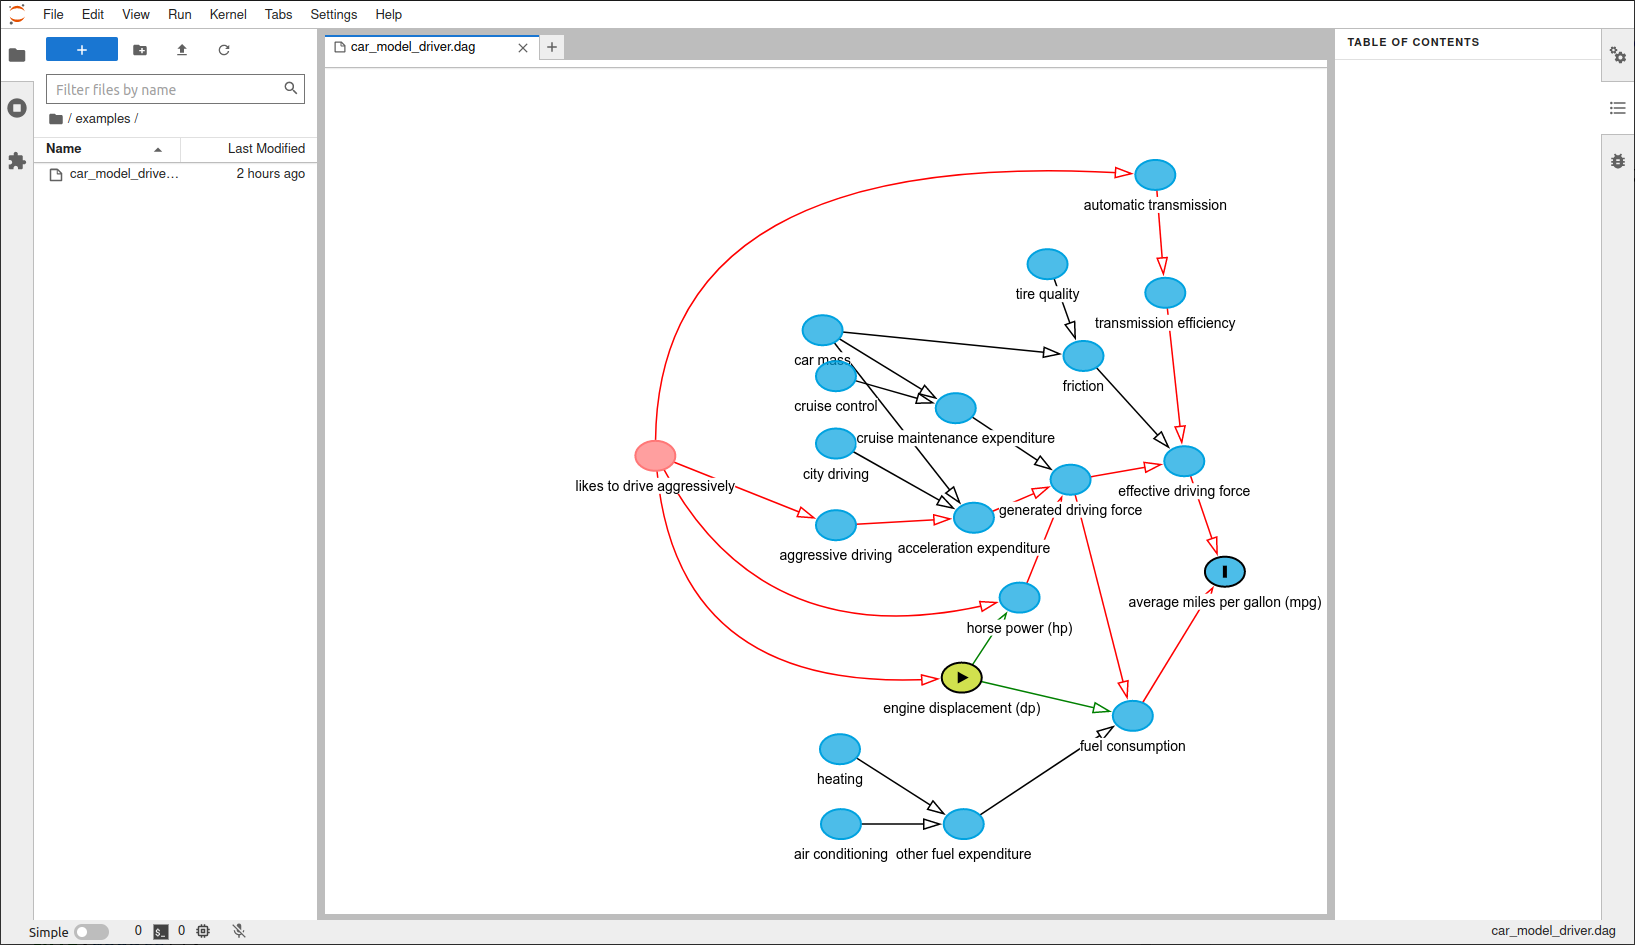
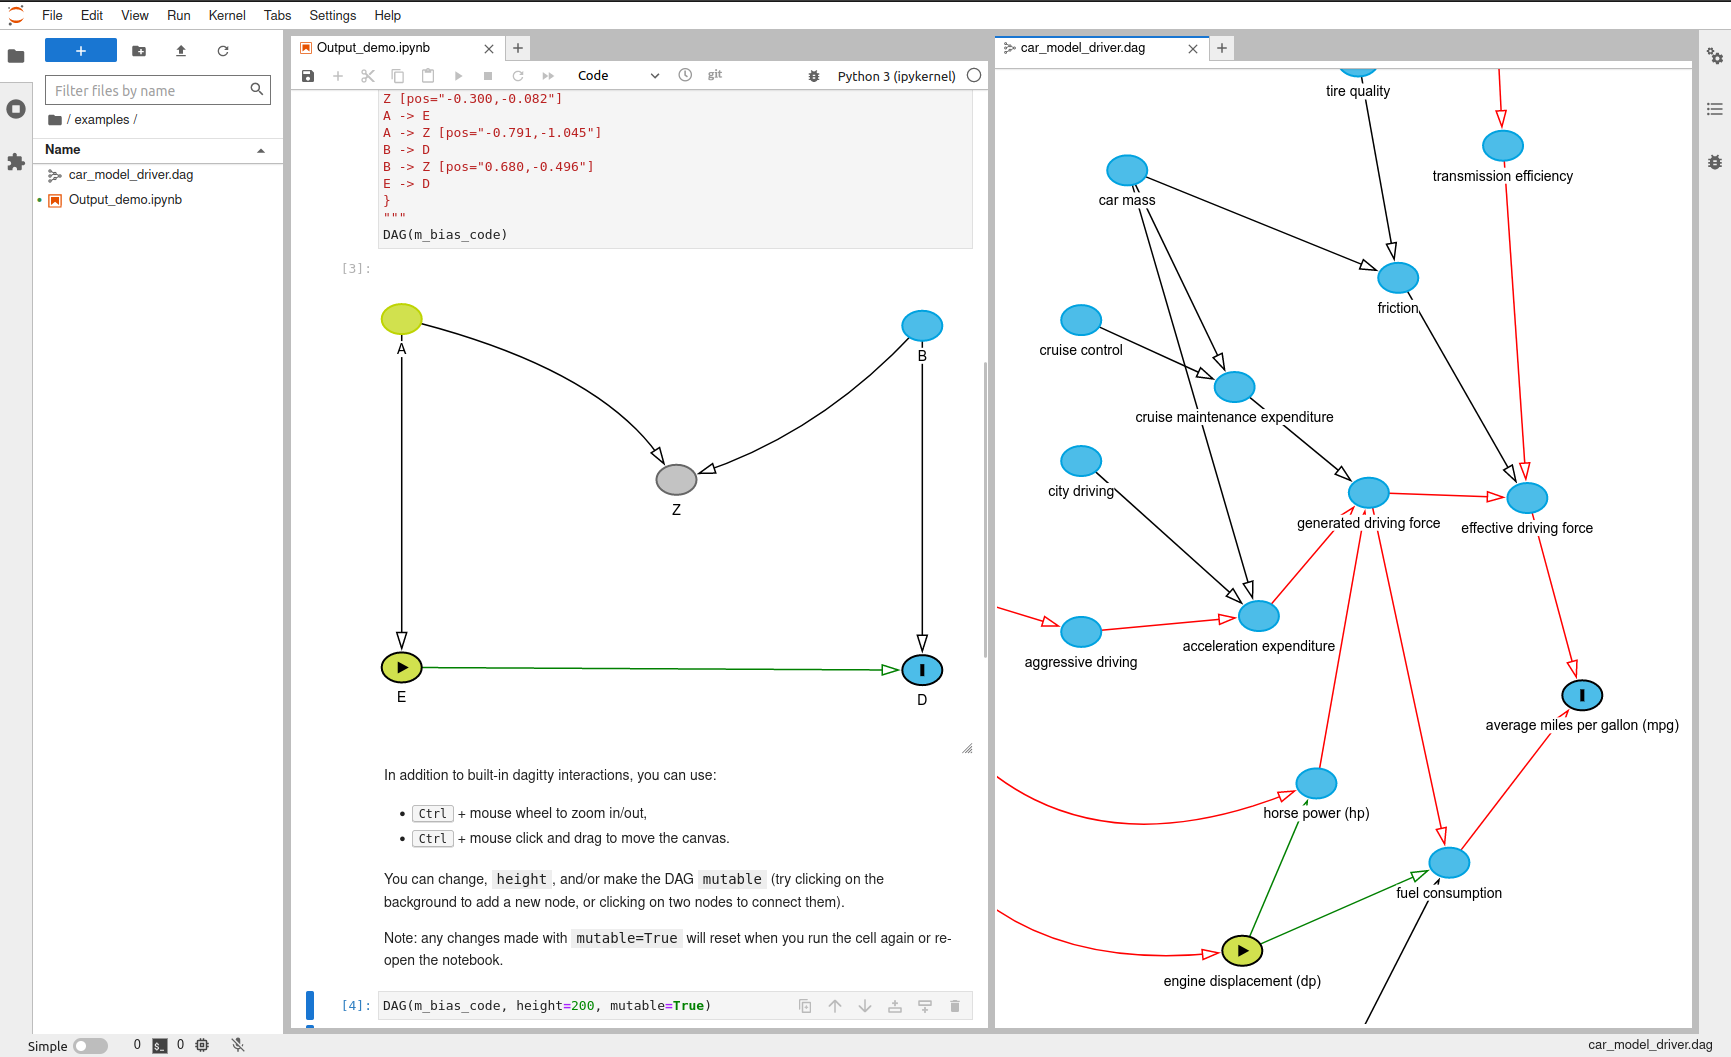
Implement pan & zoom

diff --git a/src/index.ts b/src/index.ts
@@ -15,6 +15,7 @@ import { Widget } from '@lumino/widgets';
 import type { Message } from '@lumino/messaging';
 
 import { DAGittyController, GraphParser } from './_dagitty';
+import type { Graph } from './_dagitty';
 import { dagIcon } from './icons';
 
 /**
@@ -37,6 +38,9 @@ export class OutputWidget extends Widget implements IRenderMime.IRenderer {
   private _resizeObserver: ResizeObserver;
   private _offsetLeft: number;
   private _offsetTop: number;
+  private _offsetWidth: number;
+  private _offsetHeight: number;
+  private _inDrag: boolean;
 
   /**
    * Construct a new output widget.
@@ -50,6 +54,7 @@ export class OutputWidget extends Widget implements IRenderMime.IRenderer {
       this._resize();
     });
     this._resizeObserver.observe(this.node);
+    this._inDrag = false;
   }
 
   /**
@@ -94,6 +99,8 @@ export class OutputWidget extends Widget implements IRenderMime.IRenderer {
   private _updatePositions() {
     this._offsetLeft = this.node.offsetLeft;
     this._offsetTop = this.node.offsetTop;
+    this._offsetWidth = this.node.offsetWidth;
+    this._offsetHeight = this.node.offsetHeight;
     this._arePositionsOutdated = false;
   }
 
@@ -163,6 +170,145 @@ export class OutputWidget extends Widget implements IRenderMime.IRenderer {
   protected onResize(msg: Widget.ResizeMessage): void {
     this._resize();
     this.update();
+  }
+
+  /**
+   * #### Notes
+   * This method implements the DOM `EventListener` interface and is
+   * called in response to events on the widgets's DOM node.
+   *
+   * This should not be called directly by user code.
+   */
+  handleEvent(event: Event): void {
+    switch (event.type) {
+      case 'wheel':
+        this._evtMouseWheel(event as WheelEvent);
+        event.preventDefault();
+        break;
+      case 'pointerdown':
+        this._evtMouseDown(event as MouseEvent);
+        break;
+      case 'pointermove':
+        this._evtMouseMove(event as MouseEvent);
+        break;
+      case 'pointerup':
+        this._evtMouseUp(event as MouseEvent);
+        break;
+    }
+  }
+
+  private _evtMouseDown(event: MouseEvent): void {
+    this._inDrag = true;
+  }
+
+  private _getBoundingBox(graph: Graph): number[] {
+    let box = graph.getBoundingBox();
+    if (box === null) {
+      const box2 = this.dagController.getView().bounds;
+      box = [box2[0], box2[2], box2[1], box2[3]];
+    }
+    return box;
+  }
+
+  private _evtMouseMove(event: MouseEvent): void {
+    if (!(this._inDrag && event.ctrlKey)) {
+      return;
+    }
+    this._maybeUpdatePositions();
+    const graph = this.dagController.getGraph();
+    const box = this._getBoundingBox(graph);
+    const w = box[2] - box[0];
+    const h = box[3] - box[1];
+    const dx = (event.movementX / this._offsetWidth) * w;
+    const dy = (event.movementY / this._offsetHeight) * h;
+
+    box[0] -= dx;
+    box[1] -= dy;
+    box[2] -= dx;
+    box[3] -= dy;
+
+    graph.setBoundingBox(box);
+    this.dagController.getView().drawGraph();
+    this.update();
+  }
+
+  private _evtMouseUp(event: MouseEvent): void {
+    this._inDrag = false;
+  }
+
+  private _evtMouseWheel(event: WheelEvent): void {
+    if (!(this.dagController && event.ctrlKey)) {
+      return;
+    }
+    const graph = this.dagController.getGraph();
+    let box = this._getBoundingBox(graph);
+    if (box === null) {
+      box = [0, 0, 1, 1];
+    }
+    const scale = 1 + event.deltaY / window.screen.height;
+    this._maybeUpdatePositions();
+    let w = box[2] - box[0];
+    let h = box[3] - box[1];
+
+    const xmin = box[0];
+    const ymin = box[1];
+
+    box[0] -= xmin;
+    box[1] -= ymin;
+    box[2] -= xmin;
+    box[3] -= ymin;
+
+    box[0] -= w / 2;
+    box[1] -= h / 2;
+    box[2] -= w / 2;
+    box[3] -= h / 2;
+
+    box = box.map((x) => x * scale);
+
+    const dx = (event.offsetX / this._offsetWidth) * (1 - scale) * w;
+    const dy = (event.offsetY / this._offsetHeight) * (1 - scale) * h;
+
+    box[0] += dx;
+    box[1] += dy;
+    box[2] += dx;
+    box[3] += dy;
+
+    w = box[2] - box[0];
+    h = box[3] - box[1];
+
+    box[0] += w / 2;
+    box[1] += h / 2;
+    box[2] += w / 2;
+    box[3] += h / 2;
+
+    box[0] += xmin;
+    box[1] += ymin;
+    box[2] += xmin;
+    box[3] += ymin;
+
+    graph.setBoundingBox(box);
+    this.dagController.getView().drawGraph();
+    this.update();
+  }
+
+  /**
+   * A message handler invoked on a `'before-attach'` message.
+   */
+  protected onBeforeAttach(msg: Message): void {
+    this.node.addEventListener('pointerdown', this);
+    this.node.addEventListener('pointerup', this);
+    this.node.addEventListener('pointermove', this);
+    this.node.addEventListener('wheel', this);
+  }
+
+  /**
+   * A message handler invoked on an `'after-detach'` message.
+   */
+  protected onAfterDetach(msg: Message): void {
+    this.node.removeEventListener('pointerdown', this);
+    this.node.removeEventListener('pointerup', this);
+    this.node.removeEventListener('pointermove', this);
+    this.node.removeEventListener('wheel', this);
   }
 
   dispose(): void {

diff --git a/src/_dagitty.d.ts b/src/_dagitty.d.ts
@@ -1,5 +1,17 @@
+/**
+ * [min x, min y, max x, max y]
+ */
+type BoundingBox = number[];
+
+/**
+ * [min x, max x, min y, max y]
+ */
+type BoundingBox2 = number[];
+
 export class Graph {
     getVertex(vertex: any): any;
+    setBoundingBox(bb: BoundingBox): void;
+    getBoundingBox(): BoundingBox | null;
 }
 
 type DagEvent = 'graphchange' | 'graphlayoutchange' | 'vertex_marked' | 'vertex_drag' | 'edge_drag' | 'drag_end';
@@ -13,11 +25,13 @@ export class GraphGUI_SVG {
 export class DAGittyGraphView {
     impl: GraphGUI_SVG;
     resize(): void;
+    drawGraph(): void;
     toGraphCoordinate(x: number, y: number): any;
     getViewMode(): string;
     getGraph(): Graph;
     pointerX(e: MouseEvent): number;
     pointerY(e: MouseEvent): number;
+    bounds: BoundingBox2
 }
 
 export class DAGittyController {
@@ -29,6 +43,7 @@ export class DAGittyController {
         mutable?: boolean
     });
 
+    getGraph(): Graph;
     getView(): DAGittyGraphView;
     observe(event: DagEvent, callback: any): void;
     graphLayoutChanged(): void;
